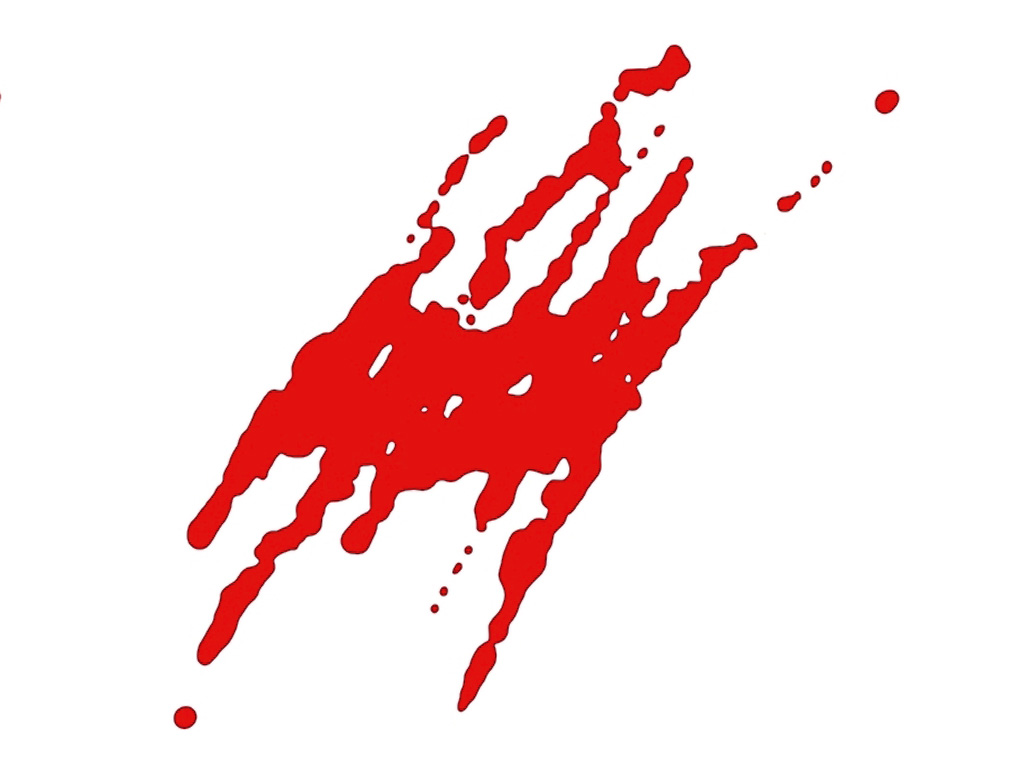
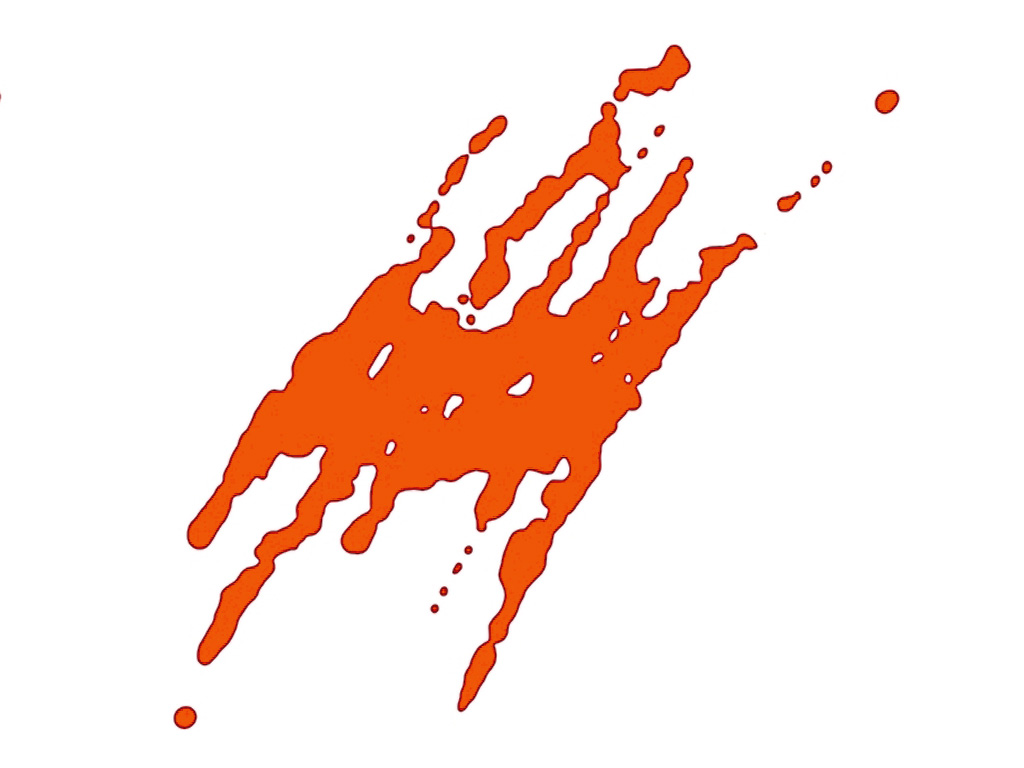
dup problem, time comp works for reals

diff --git a/GA_final_project/js/application.js b/GA_final_project/js/application.js
@@ -43,15 +43,28 @@ var y = tDay.getFullYear();
 var m =  tDay.getMonth() + 1;
 var d = tDay.getDate();
 
-var keyDateString = y + "-" + m + "-" + d;
-var urlDate = "http://data.tmsapi.com/v1/movies/showings?startDate=" + keyDateString + "&zip=10003&radius=1&api_key=sjesnpx2uhtyac5frfhzfedb";
+var dThirty = new Date();
+//dThirty.setMinutes(-210); -this is correct, resetting since it's too early now
+dThirty.setMinutes(-40);
+var isoDateThirty = dThirty.toISOString();
+console.log(isoDateThirty);
+var thirtyComp = isoDateThirty.slice(0,16);
+console.log(thirtyComp);
+
+var dPreviews = new Date();
+dPreviews.setMinutes(-255);
+var isoDatePrevs = dPreviews.toISOString();
+console.log(isoDatePrevs);
+
+var prevComp = isoDatePrevs.slice(0,16);
+console.log(prevComp);
 
 //gracenote
 var keyDateString = y + "-" + m + "-" + d;
-var urlDate = "http://data.tmsapi.com/v1/movies/showings?startDate=" + keyDateString + "&zip=10003&radius=1" + "&api_key=sjesnpx2uhtyac5frfhzfedb";
+var urlDate = "http://data.tmsapi.com/v1/movies/showings?startDate=" + keyDateString + "&zip=10003&radius=1&api_key=sjesnpx2uhtyac5frfhzfedb";
 
-$(document).ready(function(){
-  });
+ $(document).ready(function(){
+   });
 
 var gnMovs = []; 
 var movieTimes = $.ajax({
@@ -118,7 +131,8 @@ function dateConvert (timeBase) {
 function halfHour () {
   function moreMovies() {
     //combining
-    console.log(moviesArray);
+    //console.log(moviesArray);
+
     for(var comArr = [], i=0; i<gnMovs.length; i++) {
       for(j=0; j<moviesArray.length; j++) {
         if (gnMovs[i][0] == moviesArray[j].title) {
@@ -132,33 +146,93 @@ function halfHour () {
             }
           }
           movSort();
-          for (z=0; z<rateArray.length; z++) {
+
+          var compArr = [];
+          $.each(rateArray, function(index, value) {
+            if ((rateArray[index][2][0].dateTime) < thirtyComp && (rateArray[index][2][0].dateTime) > prevComp) {
+              console.log("hi!")
+              compArr.push([rateArray[index][0], rateArray[index][1], rateArray[index][2][0].dateTime, rateArray[index][2][0].theatre.name, rateArray[index][3]]);
+            }
+          });
+
+        console.log(compArr);
+
+        var uniqueNames = [];
+        for (h=0; h<compArr.length; h++) {  
+          if ($.inArray(compArr[h][0], uniqueNames) === -1)
+            console.log(compArr[h][0]);
+            uniqueNames.push([compArr[h][0], compArr[h][1], compArr[h][2], compArr[h][3], compArr[h][4]]);
+        }
+      console.log(uniqueNames);
+
+      function find_duplicates(someArr) {
+      var len=someArr.length,
+          out=[],
+          counts={};
+
+      for (var i=0;i<len;i++) {
+        var item = someArr[i];
+        var count = counts[item];
+        counts[item] = counts[item] >= 1 ? counts[item] + 1 : 1;
+      }
+
+      for (var item in counts) {
+        if(counts[item] > 1) continue;
+          out.push(item);
+      }
+
+      console.log(out);
+      }
+
+      find_duplicates(compArr);
+
+
+
+/*                  compArr.sort(function (a, b) {
+                  if (a["1"] > b["1"]) {
+                    return a - b;
+                  }
+                  //  if (a.1 < b.1) {
+                  //    return b - a;
+                  // }
+                  // // // a must be equal to b
+                  // return 0;
+                });*/
+          }
+        }
+      }
+    }       
+  moreMovies();
+}
+
+          /*for (z=0; z<rateArray.length; z++) {
             $.each(rateArray, function(index, value) {
               for (n = 0; n < rateArray[index][2].length; n++) {
-                document.getElementById("first_title").innerHTML = rateArray[z][0];
+                //console.log(rateArray[index][2][n].dateTime);
+
+                var fixDate = (rateArray[index][2][n].dateTime);
+                //dateConvert(fixDate);
+
+                var shTime = new Date(fixDate).getTime();
+                console.log(shTime);
+                  var compArr = [];
+
+                 //if (shTime > new Date().getTime() && shTime < halfHr) {
+                   //compArr.push(rateArray[index][0], rateArray[index][1], rateArray[index][2][n].dateTime);
+                //console.log(compArr);
+                 //}
+                console.log(compArr);
+*/
+
+/*                document.getElementById("first_title").innerHTML = rateArray[z][0];
                 document.getElementById("first_rating").innerHTML = rateArray[z][1];
                 document.getElementById("first_theatre").innerHTML = rateArray[index][2][n].theatre.name;
                 var fixDate = (rateArray[index][2][n].dateTime);
                 dateConvert(fixDate);
-                document.getElementById("first_showtime").innerHTML = complDate;
-                var shTime = new Date(fixDate).getTime();
-                //console.log(shTime);
-                var prevMarg = (new Date().getTime() - (15*60000));
-                //console.log(prevMarg);
-                var halfHr = (new Date().getTime() + (30*60000));
-                //console.log(halfHr);
-                if (shTime > prevMarg && shTime < halfHr) {
-                  //console.log(shTime);
-                }
-              }
-            });
-          }
-        }
-      }
-    } 
-  }       
-  moreMovies();
-}
+                document.getElementById("first_showtime").innerHTML = complDate;*/
+
+
+
 
 
 

diff --git a/GA_final_project/index.html b/GA_final_project/index.html
@@ -8,21 +8,21 @@
 	</head>
 	<body>
 		<div id="header">
-			<h1>FILM</h1><img src="./img/big_dog.jpg"><h1>HUNTER</h1><h2>no carrion</h2>
+			<h1>FILM</h1><img src="./img/big_dog.jpg"><h1 id="wImg">HUNTER</h1><h2>no carrion</h2>
 		</div>
 		<div id="timeSelect">
 			<h3>What's Your Time Frame?</h3>
 				<div>
 					<div class="times" id="half_hour" onclick="halfHour()">
-						<div class= "lead">Can't Hardly Wait!</div>
+						<div class= "lead"><span>Can't</span> Hardly<span> Wait!</span></div>
 						<div class = "sub">(movies starting in the next half hour)</div>
 					</div>
 					<div class="times" id = "hour" onclick="hour()">
-						<p class= "lead">Coffee and Cigarettes</p>
+						<p class= "lead"><span>Coffee</span> and Cigarettes</p>
 						<p class = "sub">(movies starting 1/2 to 1 hour from now)</p>
 					</div>
 					<div class="times" id = "two_hour" onclick="twoHour()">
-						<p class= "lead">Dinner with Andre</p>
+						<p class= "lead"><span>Dinner</span> with Andre</p>
 						<p class = "sub">(movies starting 1 - 2 hours from now)</p>
 					</div>
 				</div>	
@@ -35,60 +35,60 @@
 					<div class="movies" class = "showtime" id = "first_showtime"></div>
  				</div>
 			</div>
-			<p class="movies" id="result2">
+			<div class="movies" id="result2">
 				<div class = "title" id = "second_title"></div>
 				<div class = "rating" id = "second_rating"></div>
 				<div class = "theatre" id = "second_theatre"></div>
 				<div class = "showtime" id = "second_showtime"></div>
-			</p>
-			<p class="movies" id="result3">
+			</div>
+			<div class="movies" id="result3">
 				<div class = "title" id = "third_title"></div>
 				<div class = "rating" id = "third_rating"></div>
 				<div class = "theatre" id = "third_theatre"></div>
 				<div class = "showtime" id = "third_showtime"></div>
-			</p>
-			<p class="movies" id="result4">
+			</div>
+			<div class="movies" id="result4">
 				<div class = "title" id = "fourth_title"></div>
 				<div class = "rating" id = "fourth_rating"></div>
 				<div class = "theatre" id = "fourth_theatre"></div>
 				<div class = "showtime" id = "fourth_showtime"></div>
-			</p>
-			<p class="movies" id="result5">
+			</div>
+			<div class="movies" id="result5">
 				<div class = "title" id = "fifth_title"></div>
 				<div class = "rating" id = "fifth_rating"></div>
 				<div class = "theatre" id = "fifth_theatre"></div>
 				<div class = "showtime" id = "fifth_showtime"></div>
-			</p>
-			<p class="movies" id="result6">
+			</div>
+			<div class="movies" id="result6">
 				<div class = "title" id = "sixth_title"></div>
 				<div class = "rating" id = "sixth_rating"></div>
 				<div class = "theatre" id = "sixth_theatre"></div>
 				<div class = "showtime" id = "sixth_showtime"></div>
-			</p>
-			<p class="movies" id="result7">
+			</div>
+			<div class="movies" id="result7">
 				<div class = "title" id = "seventh_title"></div>
 				<div class = "rating" id = "seventh_rating"></div>
 				<div class = "theatre" id = "seventh_theatre"></div>
 				<div class = "showtime" id = "seventh_showtime"></div>
-			</p>
-			<p class="movies" id="result8">
-				<div class = "title" id = "eigth_title"></div>
-				<div class = "rating" id = "eigth_rating"></div>
-				<div class = "theatre" id = "eigth_theatre"></div>
-				<div class = "showtime" id = "eigth_showtime"></div>
-			</p>
-			<p class="movies" id="result9">
+			</div>
+			<div class="movies" id="result8">
+				<div class = "title" id = "eighth_title"></div>
+				<div class = "rating" id = "eighth_rating"></div>
+				<div class = "theatre" id = "eighth_theatre"></div>
+				<div class = "showtime" id = "eighth_showtime"></div>
+			</div>
+			<div class="movies" id="result9">
 				<div class = "title" id = "ninth_title"></div>
 				<div class = "rating" id = "ninth_rating"></div>
 				<div class = "theatre" id = "ninth_theatre"></div>
 				<div class = "showtime" id = "ninth_showtime"></div>
-			</p>
-			<p class="movies" id="result10">
+			</div>
+			<div class="movies" id="result10">
 				<div class = "title" id = "tenth_title"></div>
 				<div class = "rating" id = "tenth_rating"></div>
 				<div class = "theatre" id = "tenth_theatre"></div>
 				<div class = "showtime" id = "tenth_showtime"></div>
-			</p>
+			</div>
 		</div>
 		<div id="aboutLink">
 			<a href="about.html">About Film Hunter</a>

diff --git a/GA_final_project/css/main.css b/GA_final_project/css/main.css
@@ -3,7 +3,16 @@ body {
 }
 #header {
 	text-align: center;
+
 }
+#wImg {
+	opacity: 1;
+	background-image: url(../img/cropped_slash_redder.jpg);
+	background-repeat: no-repeat;	
+	background-position: center;
+	background-size: contain;
+}
+
 h1 {
 	font-family: 'Shadows Into Light', Arial, sans-serif;
 	font-size: 6em;
@@ -48,6 +57,7 @@ img {
 .sub {
 	font-size: 1em;
 	margin: 0;
+	font-style: italic;
 	opacity: 0;
 }
 
@@ -59,29 +69,36 @@ img {
 	width: 40%;
 	/*change width at smaller screen sizes, becomes too tall to accomodate sub*/
 	text-align: center;
-	margin: .5em auto;
+	margin: 1em auto;
   	display: block;
   	color: black;
-  	background: linear-gradient(white, white 50%, rgb(255,0,0) 50%, rgb(255,0,0));
+  	background: linear-gradient(white, white 50%, rgb(232,0,0) 50%, rgb(232,0,0));
   	background-size: 100% 202%;
   	-webkit-transition: all 0.2s ease;
   	-webkit-animation: down-bump 0.4s ease;
 }
 
 .times:hover {
+	border: 0px;	
   background-position: 100% 100%;
   -webkit-animation: up-bump 0.4s ease;
 }
 
 .times:hover .lead {
 	margin: 0;
+	color: rgb(160,160,160);
+}
+
+.times:hover .lead span {
+	margin: 0;
 	color: white;
 }
 
 .times:hover .sub {
-	color: rgb(192,192,192);
+	color: rgb(212,212,212);
 	opacity: 1;
 }
+
 
 @-webkit-keyframes up-bump {
   0% { padding-top: 1em; }
@@ -100,31 +117,24 @@ img {
   margin: 0;
 }
 
-.movies_contain {
-	padding-top: 5%;
-	height: 15em;
-	margin: 0;
-}
-
 .movies {
    	display:block;
    	width: 100%;
    	text-align: center;
    	font-size: 1em;
    	margin: 0;
-   	padding: .5em;
 }
 
-
+/*
 #result1:hover {
-	background-image: url(../img/cropped_slash.jpg);
+	background-image: url(../img/cropped_slash_redder.jpg);
 	background-repeat: no-repeat;	
 	background-position: center;
 	cursor: pointer;
 	background-size: contain;
-	font-weight: 800;
+	font-weight: 700;
 }
-
+*/
 #aboutLink {
 	margin-bottom: 3em;
 }
